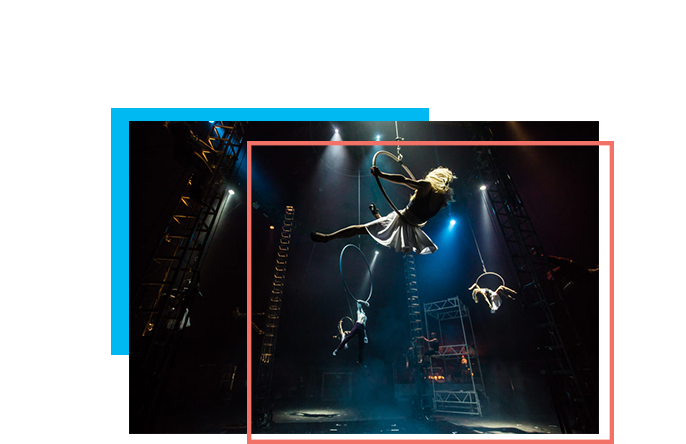
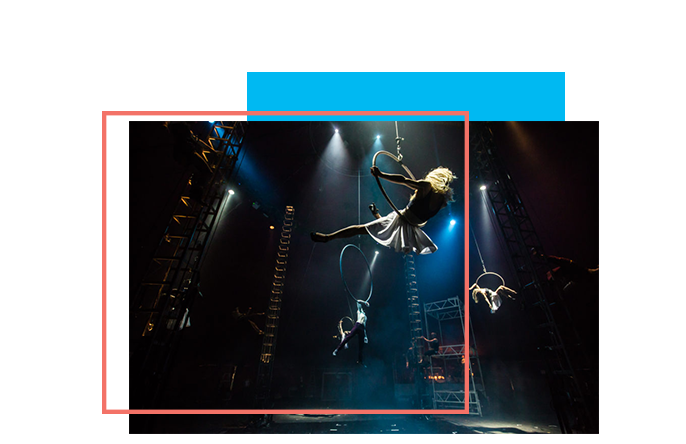
Last novedades
yes

Changed region(s): [[0.1224, 0.1464, 0.9184, 1.0]]

diff --git a/expermain.html b/expermain.html
@@ -144,26 +144,139 @@
     </header>
     <!-- Header Area wrapper End -->
 
-    <!-- INFO START -->
+      
+     <div class="section-header text-center">
+        <img class="infotype wow fadeIn" data-wow-delay="1s" src="novedades/novedadesphoto.png" alt="">
+        <h6>
+        Últimas novedades de nuestros artistas, nuestra gente y nuestro espectáculo. <br> Enterate de todo lo que tiene Odisea En Las Calles para ofrecer!
+        </h6>
+        <div class="nuestroamigodivider"></div>
+
+     <!-- BLOG START -->
+    <!--  onepage -->
  <div id="ticket">
       <div class="container-fluid">
         <div class="row">
           <div class="col-lg-6 col-md-12 col-sm-12">
             <div class="col-lg-6 col-md-12 col-sm-12 padding-none">
-            <h1>PAGINA EN CONSTRUCCION</h1>
+            <div class="feature-thumb wow fadeIn" data-wow-delay="1s">
+             <div class="parent">
+             <div class="child1">
+              <img class="infophoto" src="novedades/blog1.png" alt="">
+              </div>
+              </div>
+            </div>
           </div> 
           </div>
          
           <div class="text-wrapper">
               <div>
-            
+                <div class="title-hl wow fadeInLeft" data-wow-delay="0.3s">
+                   <h1>ARTISTA ODISEA: SPOTLIGHT UK CIRCUS <br></h1>
+                </div>
+                <div class="intermitentlineviolet wow fadeInLeft" wow-data-delay="1s"></div>
+                <p class="wow fadeInLeft" data-wow-delay="0.3s">Presentando Levante Dance Theatre por The Band. <br>Combina música, formas artísticas, circo y teatro físico. <br> Una experiencia encantadora que podremos presenciar en nuestro evento.
+            </p>
+              <div class="nuestroamigodivider"></div>
+               <a href="#" >
+               <img src="novedades/vermasbutton.png" alt=""></a>
+                <div class="row">
+                </div>
               </div>
             </div>
         </div>
       </div>
     </div>
-    <!-- INFO End -->
+    <!-- end onepage -->
 
+
+    <!-- twopage -->
+    <div id="tickets">
+      <div class="container-fluid">
+        <div class="row">
+          <div class="col-lg-6 col-md-12 col-sm-12">
+            <div class="text-wrapper">
+              <div>
+                <div class="title-hl wow fadeInLeft" data-wow-delay="0.3s">
+                  <h1>ILLYA KURYAKI ILUMINÓ EL LUNA PARK JUSTO A ANTESALAS DE ODISEA EN LAS CALLES </h1></div>
+                  <div class="intermitentlineorange wow fadeInRight" wow-data-delay="1s"></div>
+                <p class="wow fadeIn" data-wow-delay="1">Por la medianoche, en los alrededores del Luna Park, y tras un temporal que duró casi todo el sábado, la ciudad lucía devastada, vacía, fría y húmeda, zombie. <br>Como si el apocalipsis hubiera ocurrido ahora, mientras los Illya Kuryaki and the Valderramas presentaban oficialmente su octavo disco de estudio, ante una pequeña multitud que aportó el marco necesario para que en el estadio renaciera el calor.
+            </p>
+              <div class="nuestroamigodivider"></div>
+               <a href="#"> <img src="novedades/vermasbutton.png" alt=""></a>
+                <div class="row">
+                </div>
+              </div>
+            </div>
+          </div>
+          <div class="col-lg-6 col-md-12 col-sm-12 padding-none">
+            <div class="feature-thumb wow fadeIn" data-wow-delay="1s">
+             <div class="parent">
+             <div class="child1">
+              <img class="infophoto" src="novedades/blog2.png" alt="">
+              </div>
+              </div>
+            </div>
+          </div>
+        </div>
+      </div>
+    </div>
+    <!-- twopage ends -->
+
+
+<!-- threepage -->
+    <div id="ticket">
+      <div class="container-fluid">
+        <div class="row">
+          <div class="col-lg-6 col-md-12 col-sm-12">
+            <div class="col-lg-6 col-md-12 col-sm-12 padding-none">
+            <div class="feature-thumb wow fadeIn" data-wow-delay="1s">
+             <div class="parent">
+             <div class="child1">
+              <img class="infophoto" src="novedades/blog3.png" alt="">
+              </div>
+              </div>
+            </div>
+          </div> 
+          </div>
+         
+          <div class="text-wrapper">
+              <div>
+                <div class="title-hl wow fadeInLeft" data-wow-delay="0.3s">
+                   <h1>GORILLAZ PRESENTÓ NUEVO ÁLBUM: <br> THE NOW NOW</h1>
+                </div>
+                <div class="intermitentlineblue wow fadeInLeft" wow-data-delay="1s"></div>
+                <p class="wow fadeInLeft" data-wow-delay="0.3s">Con pocos colaboradores humanos celebridades, Los personajes icónicos de Gorillaz estan de nuevo en la rueda: <br> Un miembro de ellos pertenece al mundo de las chicas superpoderosas, dijo Damon Albarn. 
+            </p>
+              <div class="nuestroamigodivider"></div>
+               <a href="#" >
+               <img src="novedades/vermasbutton.png" alt=""></a>
+                <div class="row">
+                </div>
+              </div>
+            </div>
+        </div>
+      </div>
+    </div>
+    <!-- threepage ends -->
+
+<div class="nuestroamigodivider"></div>
+
+<!-- vermasnoticias section  -->
+
+ 
+ <div class="loadmore container-fluid">
+     <div class="row">
+         <div class="col-lg-12">
+            <a href="#">
+             <img src="novedades/loadmore.png" alt=""></a>
+         </div>
+     </div>
+ </div>
+
+ <!-- end  -->
+ 
+ <div class="nuestroamigodivider"></div>
 
 
 

diff --git a/novedadesmain.html b/novedadesmain.html
@@ -159,7 +159,11 @@
           <div class="col-lg-6 col-md-12 col-sm-12">
             <div class="col-lg-6 col-md-12 col-sm-12 padding-none">
             <div class="feature-thumb wow fadeIn" data-wow-delay="1s">
+             <div class="parent">
+             <div class="child1">
               <img class="infophoto" src="novedades/blog1.png" alt="">
+              </div>
+              </div>
             </div>
           </div> 
           </div>
@@ -167,10 +171,10 @@
           <div class="text-wrapper">
               <div>
                 <div class="title-hl wow fadeInLeft" data-wow-delay="0.3s">
-                   <h1>Hola que tal!</h1>
+                   <h1>ARTISTA ODISEA: SPOTLIGHT UK CIRCUS <br></h1>
                 </div>
                 <div class="intermitentlineviolet wow fadeInLeft" wow-data-delay="1s"></div>
-                <p class="wow fadeInLeft" data-wow-delay="0.3s">Cómo es? Qué es? Por qué suena tan divertido? <br> Esta y muchas más preguntas respondidas en un click:
+                <p class="wow fadeInLeft" data-wow-delay="0.3s">Presentando Levante Dance Theatre por The Band. <br>Combina música, formas artísticas, circo y teatro físico. <br> Una experiencia encantadora que podremos presenciar en nuestro evento.
             </p>
               <div class="nuestroamigodivider"></div>
                <a href="#" >
@@ -195,7 +199,7 @@
                 <div class="title-hl wow fadeInLeft" data-wow-delay="0.3s">
                   <h1>ILLYA KURYAKI ILUMINÓ EL LUNA PARK JUSTO A ANTESALAS DE ODISEA EN LAS CALLES </h1></div>
                   <div class="intermitentlineorange wow fadeInRight" wow-data-delay="1s"></div>
-                <p class="wow fadeIn" data-wow-delay="1s">Por la medianoche, en los alrededores del Luna Park, y tras un temporal que duró casi todo el sábado, la ciudad lucía devastada, vacía, fría y húmeda, zombie. <br>Como si el apocalipsis hubiera ocurrido ahora, mientras los Illya Kuryaki and the Valderramas presentaban oficialmente su octavo disco de estudio, ante una pequeña multitud que aportó el marco necesario para que en el estadio renaciera el calor.
+                <p class="wow fadeIn" data-wow-delay="1">Por la medianoche, en los alrededores del Luna Park, y tras un temporal que duró casi todo el sábado, la ciudad lucía devastada, vacía, fría y húmeda, zombie. <br>Como si el apocalipsis hubiera ocurrido ahora, mientras los Illya Kuryaki and the Valderramas presentaban oficialmente su octavo disco de estudio, ante una pequeña multitud que aportó el marco necesario para que en el estadio renaciera el calor.
             </p>
               <div class="nuestroamigodivider"></div>
                <a href="#"> <img src="novedades/vermasbutton.png" alt=""></a>
@@ -206,7 +210,11 @@
           </div>
           <div class="col-lg-6 col-md-12 col-sm-12 padding-none">
             <div class="feature-thumb wow fadeIn" data-wow-delay="1s">
+             <div class="parent">
+             <div class="child1">
               <img class="infophoto" src="novedades/blog2.png" alt="">
+              </div>
+              </div>
             </div>
           </div>
         </div>
@@ -222,7 +230,11 @@
           <div class="col-lg-6 col-md-12 col-sm-12">
             <div class="col-lg-6 col-md-12 col-sm-12 padding-none">
             <div class="feature-thumb wow fadeIn" data-wow-delay="1s">
-              <img class="infophoto" src="novedades/blog1.png" alt="">
+             <div class="parent">
+             <div class="child1">
+              <img class="infophoto" src="novedades/blog3.png" alt="">
+              </div>
+              </div>
             </div>
           </div> 
           </div>
@@ -230,10 +242,10 @@
           <div class="text-wrapper">
               <div>
                 <div class="title-hl wow fadeInLeft" data-wow-delay="0.3s">
-                   <h1>Hola que tal!</h1>
+                   <h1>GORILLAZ PRESENTÓ NUEVO ÁLBUM: <br> THE NOW NOW</h1>
                 </div>
                 <div class="intermitentlineblue wow fadeInLeft" wow-data-delay="1s"></div>
-                <p class="wow fadeInLeft" data-wow-delay="0.3s">Cómo es? Qué es? Por qué suena tan divertido? <br> Esta y muchas más preguntas respondidas en un click:
+                <p class="wow fadeInLeft" data-wow-delay="0.3s">Con pocos colaboradores humanos celebridades, Los personajes icónicos de Gorillaz estan de nuevo en la rueda: <br> Un miembro de ellos pertenece al mundo de las chicas superpoderosas, dijo Damon Albarn. 
             </p>
               <div class="nuestroamigodivider"></div>
                <a href="#" >

diff --git a/css/main.css b/css/main.css
@@ -26,6 +26,10 @@ h1, h2, h3, h4 {
   font-family: 'Montserrat', sans-serif;
 }
 
+h1 {
+    color: #542583;
+}
+
 .nuestroamigodivider {
     margin-top: 40px;
 }
@@ -321,6 +325,7 @@ hr {
   font-size: 40px;
   margin-bottom: 50px;
     margin-top: 230px;
+    color: 
 }
 
 .ticket-box {
@@ -1262,7 +1267,7 @@ textarea {
 .intermitentlineblue {
     margin-left: 15px;
     margin-bottom: 20px;
-    width: 600px;
+    width: 800px;
     height: 10px;
     background-color: #00b1eb;
 }
@@ -1279,10 +1284,49 @@ textarea {
 .intermitentlineviolet {
     margin-left: 15px;
     margin-bottom: 20px;
-    width: 600px;
+    width: 800px;
     height: 10px;
     background-color: #542583;
 }
+
+/* picture blog zooms */
+
+.parent {
+    width: 400px;
+    height: 300px;
+}
+
+.child1 {
+    width: 100%;
+    height: 100%;
+    background-color: rgba(255, 255, 255, 0);
+    background-image: url(novedades/blog1.png)
+}
+
+.child2 {
+    width: 100%;
+    height: 100%;
+    background-color: rgba(255, 255, 255, 0);
+    background-image: url(novedades/blog2.png)
+}
+
+.child3 {
+    width: 100%;
+    height: 100%;
+    background-color: rgba(255, 255, 255, 0);
+    background-image: url(novedades/blog3.png);
+    background-position: center;
+    background-size: cover;
+}
+
+.parent:hover .child1, child2, child3,
+.parent:focus .child1, child2, child3 {
+    transform: scale(1.2);
+    transition: all .5s;
+}
+
+/* end */
+
 
 /* Footer Area Start */
 .footer-area {
